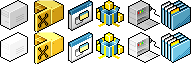
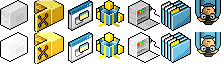
2006-11-15  Roman Joost  <romanofski@gimp.org>
* src/prefs.xcf
	* chrome/browser/preferences/preferences.css
	* chrome/browser/preferences/Options.png: added new icon for
	privacy

git-svn-id: svn+ssh://svn.berlios.de/svnroot/repos/pixelzilla/firefox/trunk@83 800e9147-b7de-0310-9861-b85461fecd58

diff --git a/chrome/browser/preferences/preferences.css b/chrome/browser/preferences/preferences.css
@@ -49,10 +49,10 @@ radio[pane=paneMain]:hover, radio[pane=paneMain][selected="true"]  {
 }
 
 radio[pane=panePrivacy] {
-	-moz-image-region: rect(0px, 64px,  32px, 32px)
+	-moz-image-region: rect(0px, 224px,  32px, 192px)
 }
 radio[pane=panePrivacy]:hover, radio[pane=panePrivacy][selected="true"]  {
-	-moz-image-region: rect(32px, 64px,  64px, 32px)
+	-moz-image-region: rect(32px, 224px,  64px, 192px)
 }
 
 radio[pane=paneSecurity] {
